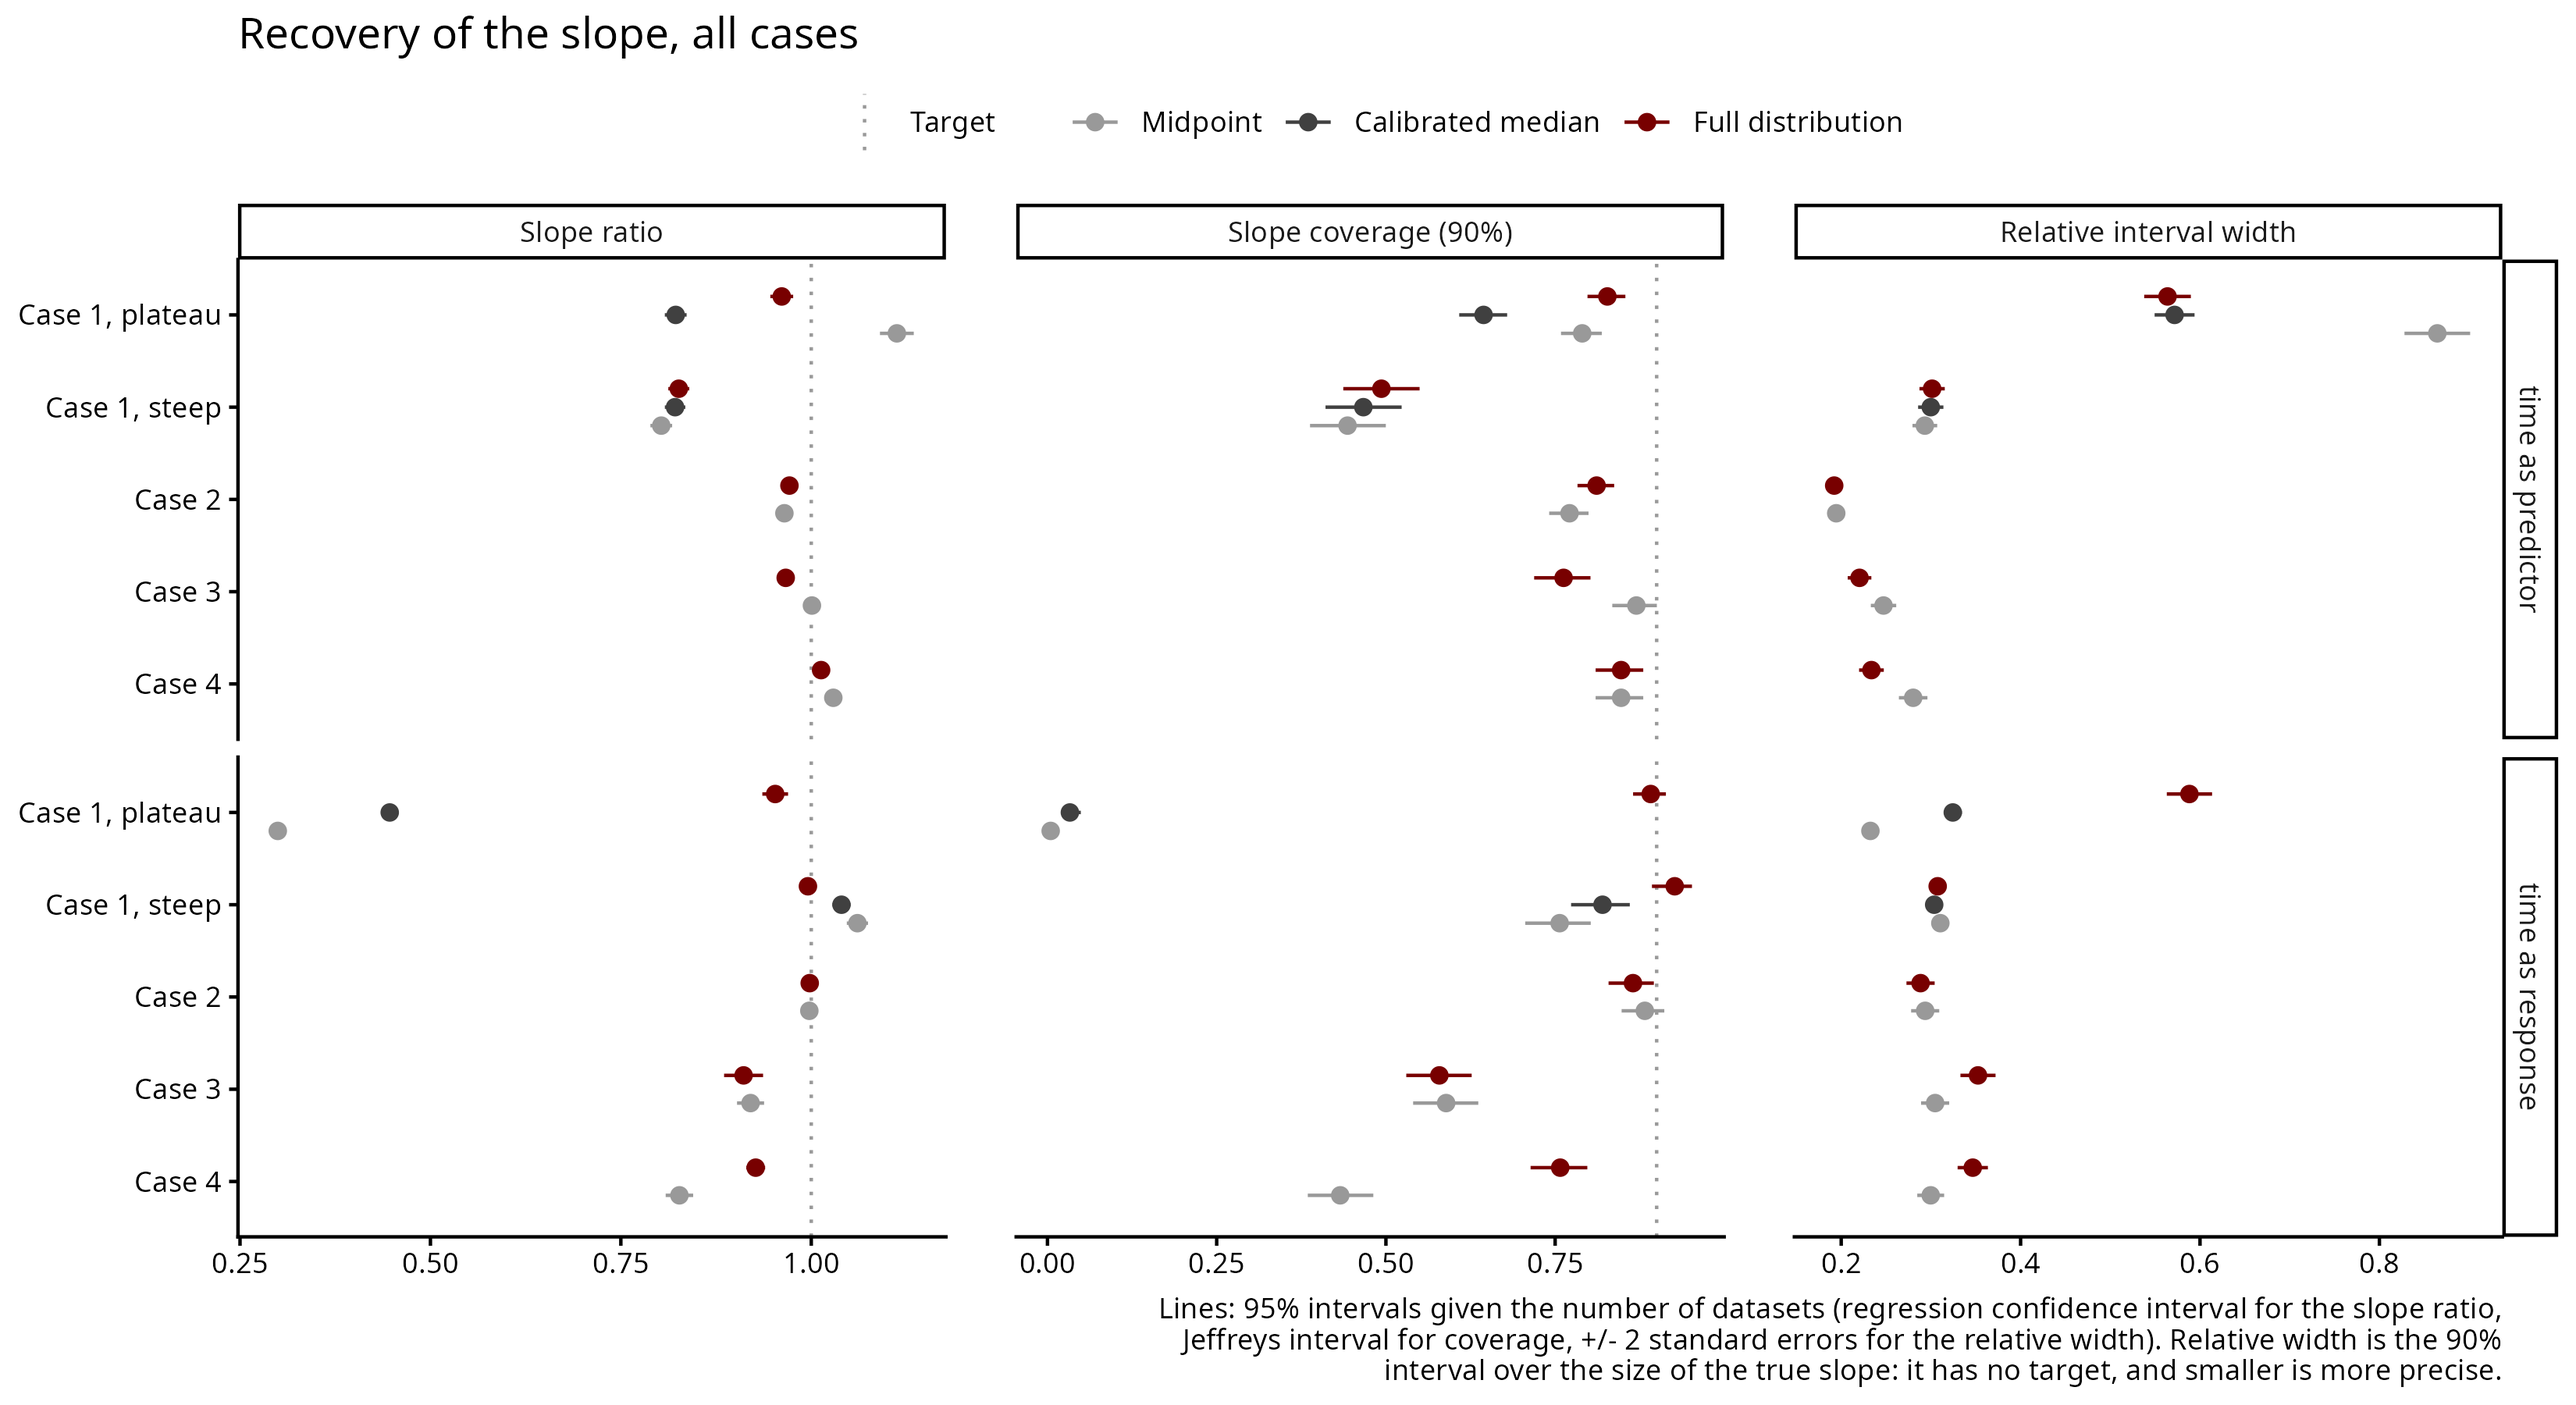
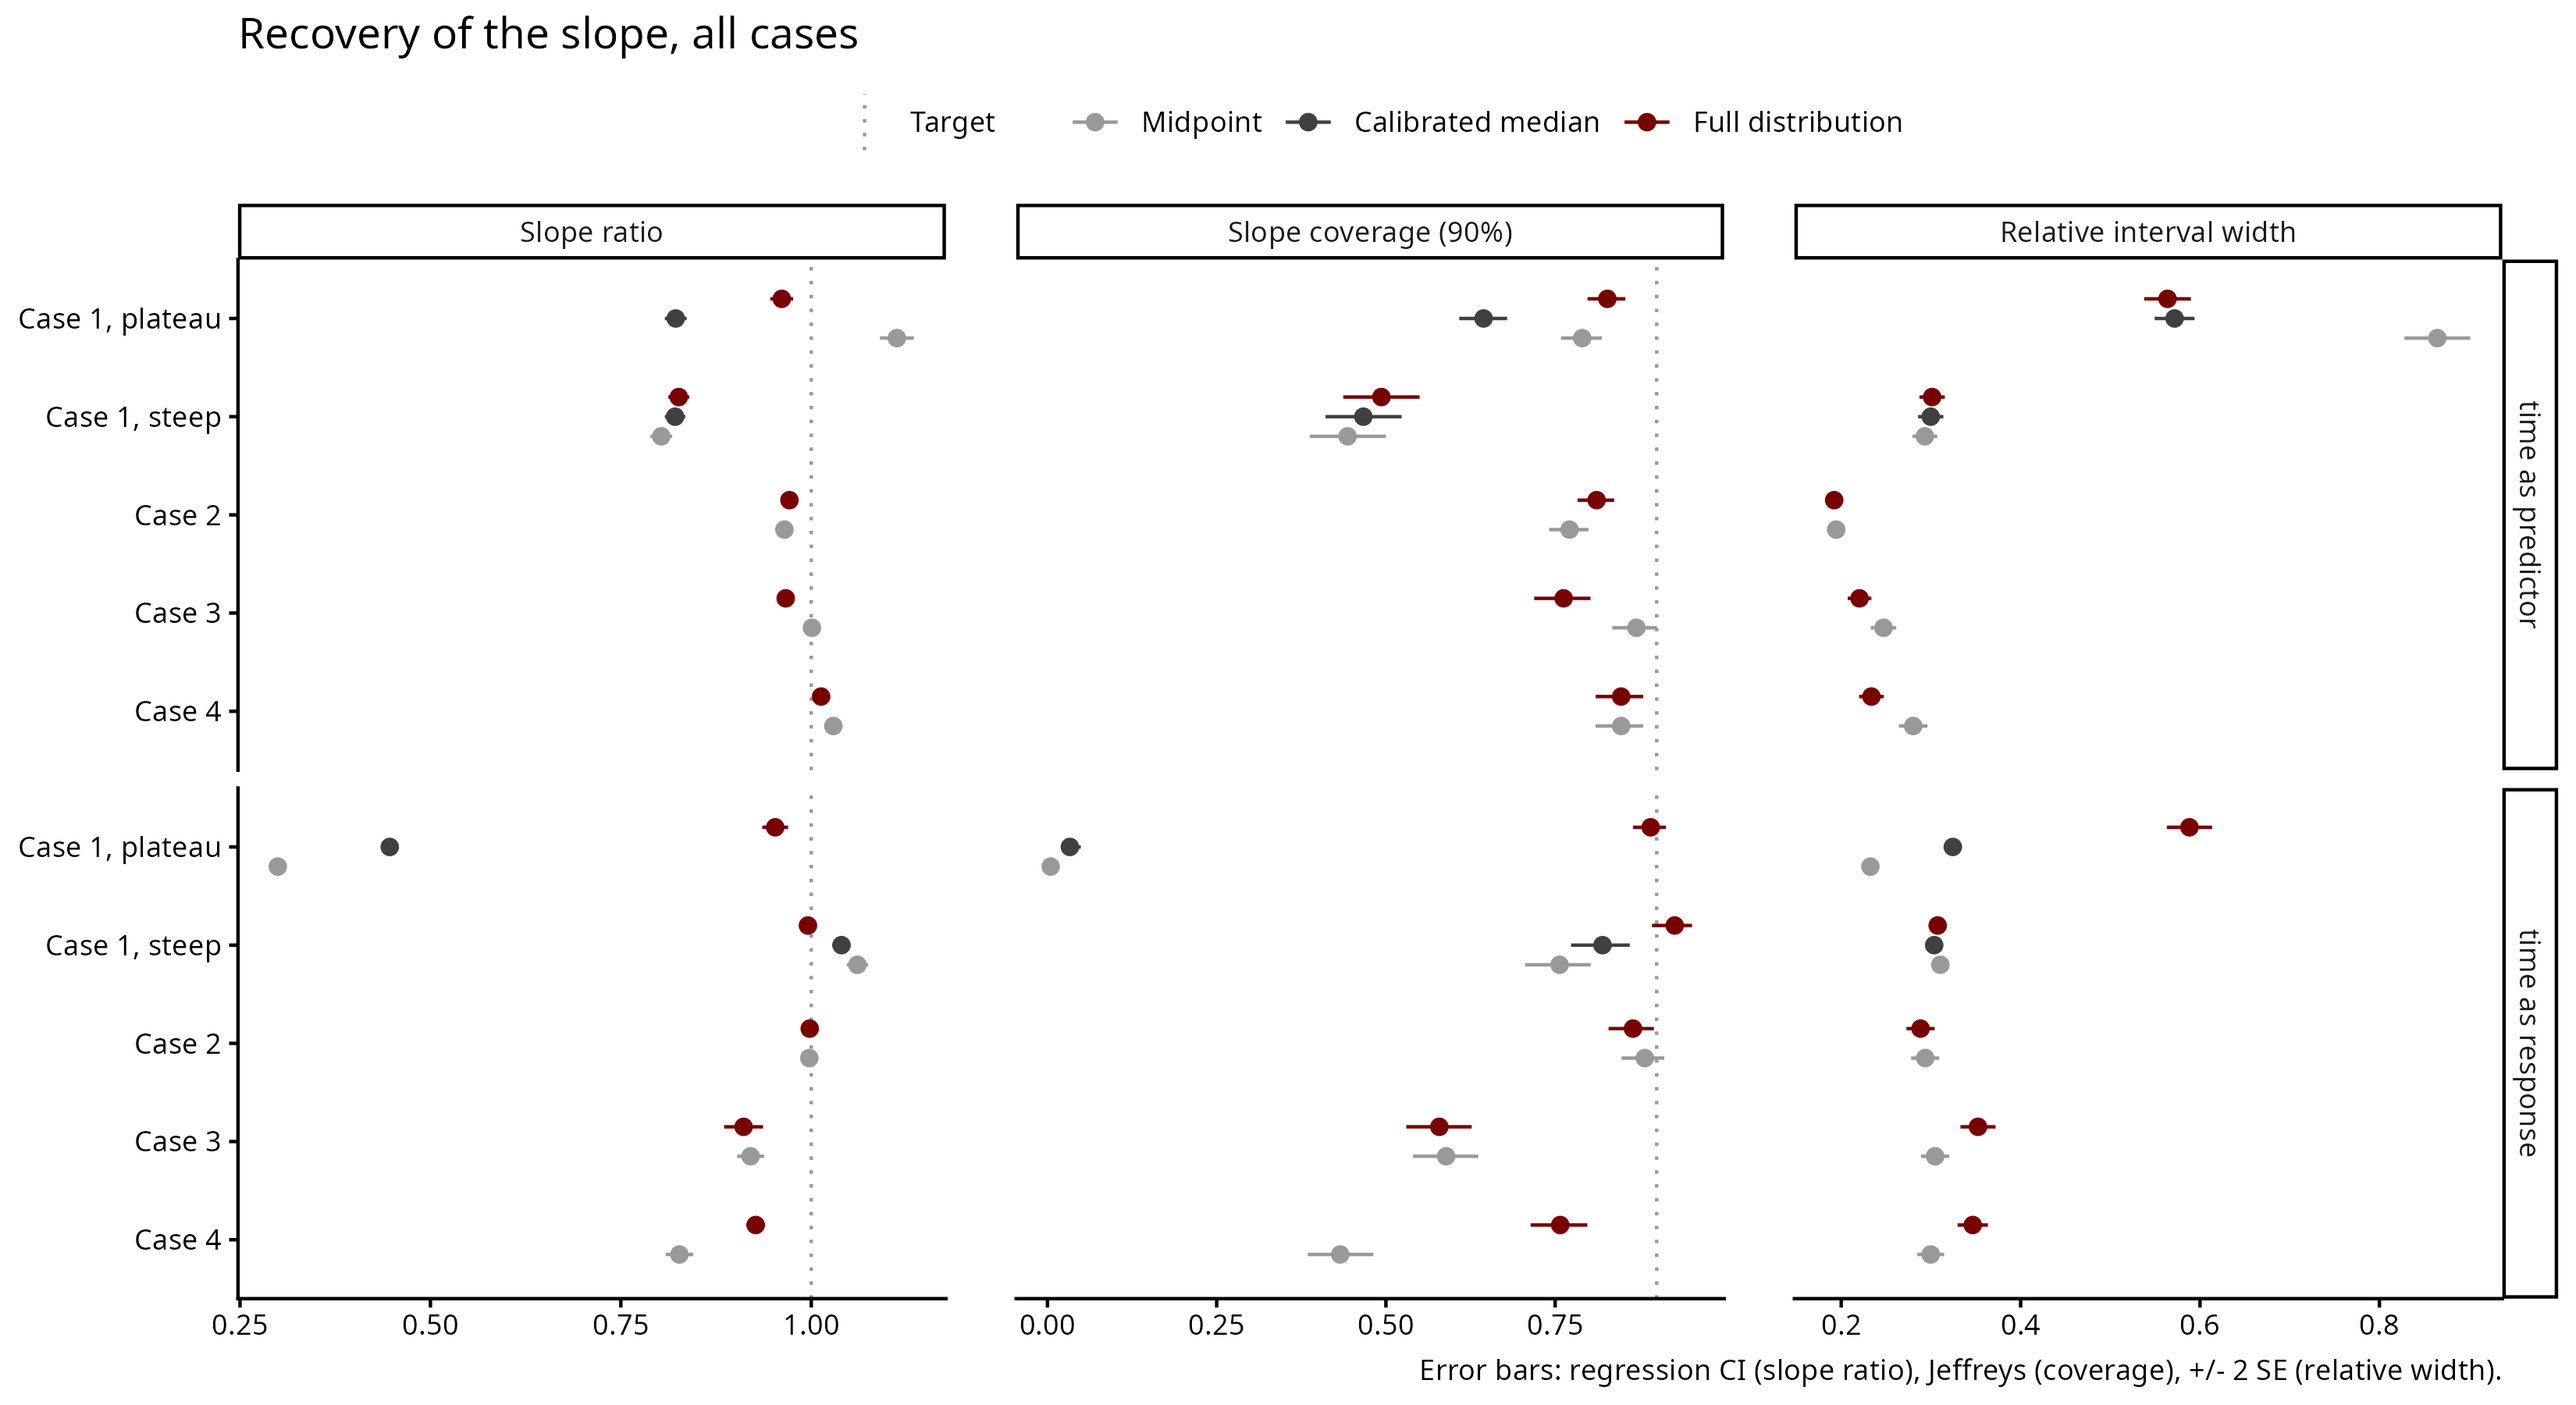
Precision plots in RESULTS

diff --git a/RESULTS.md b/RESULTS.md
@@ -22,18 +22,17 @@ Measures, computed on datasets with a real (non-zero) slope:
   (target 0.90).
 - **σ bias**: estimated minus true σ (the scatter around the trend). Positive:
   the scatter is overestimated; negative: underestimated. Target 0.
-- **Relative interval width**: mean width of the slope's 90% interval, divided
-  by the size of the true slope. No target — smaller is more precise. Raw
-  width is in the slope's own units (value per year for time as predictor,
-  years per value unit for time as response) and depends on the length of the
-  period, so dividing by the true slope is what makes it readable next to the
-  other cases and the other direction.
+- **Relative interval width** (precision): mean width of the slope's 90% interval, divided
+  by the size of the true slope (to make it comparable across different cases). Smaller = more precise.
 
 ![Slope ratio, coverage and relative interval width, all cases](Simulations/shared/figures/overview.png)
 
-Points: the measure across all datasets in a group. Lines: its 95% interval given
-the number of datasets (regression confidence interval for the slope ratio,
-Jeffreys interval for coverage, +/- 2 standard errors for the relative width).
+Points: the measure across all datasets in a group. Error bars: its 95% interval,
+of the kind each measure calls for — a regression CI for the slope ratio (it is a
+regression coefficient), a Jeffreys interval for coverage (a proportion, and the
+usual normal approximation breaks down near 0 and 1), +/- 2 standard errors for
+the relative width (a mean).
+
 The slope ratio is the slope of a regression of the estimated slopes on the true
 slopes across datasets. Dividing each estimate by its true slope and averaging
 would not work: many datasets have a true slope close to zero, and a small
@@ -46,6 +45,21 @@ midpoint gives the narrowest interval of the three (relative width 0.23 against
 0.59 for the full distribution) and its interval almost never contains the true
 slope (coverage 0.005). A narrow interval is only worth having where coverage is
 close to 0.90.
+
+The same two measures, accuracy and precision, plotted against each other, one
+panel per direction and method:
+
+![Accuracy against precision](Simulations/shared/figures/accuracy_precision.png)
+
+The bottom left corner is accurate and tight. With time as predictor the full
+distribution moves the plateau left and down, more accurate and tighter at once.
+With time as response it moves it left and up: the accuracy is bought with
+width. Outside radiocarbon the two methods sit close together in both
+directions.
+
+Only the midpoint and the full distribution are shown. In Cases 2-4 the windows
+are flat, so the median is the midpoint; in Case 1 the calibrated median is a
+third method, in the figure above.
 
 ## Time as predictor
 
